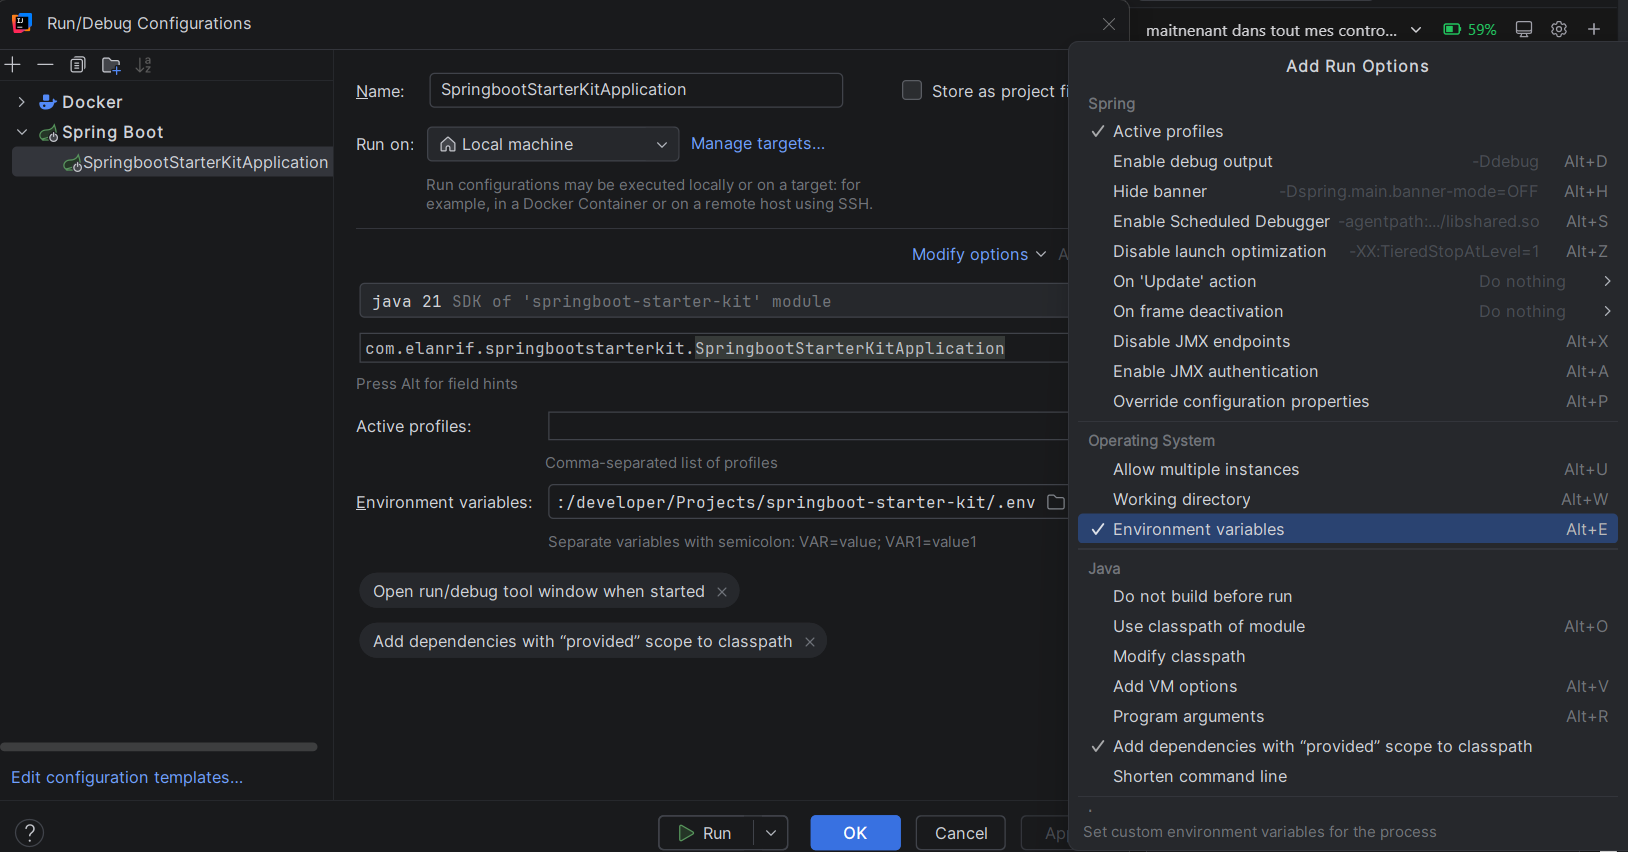
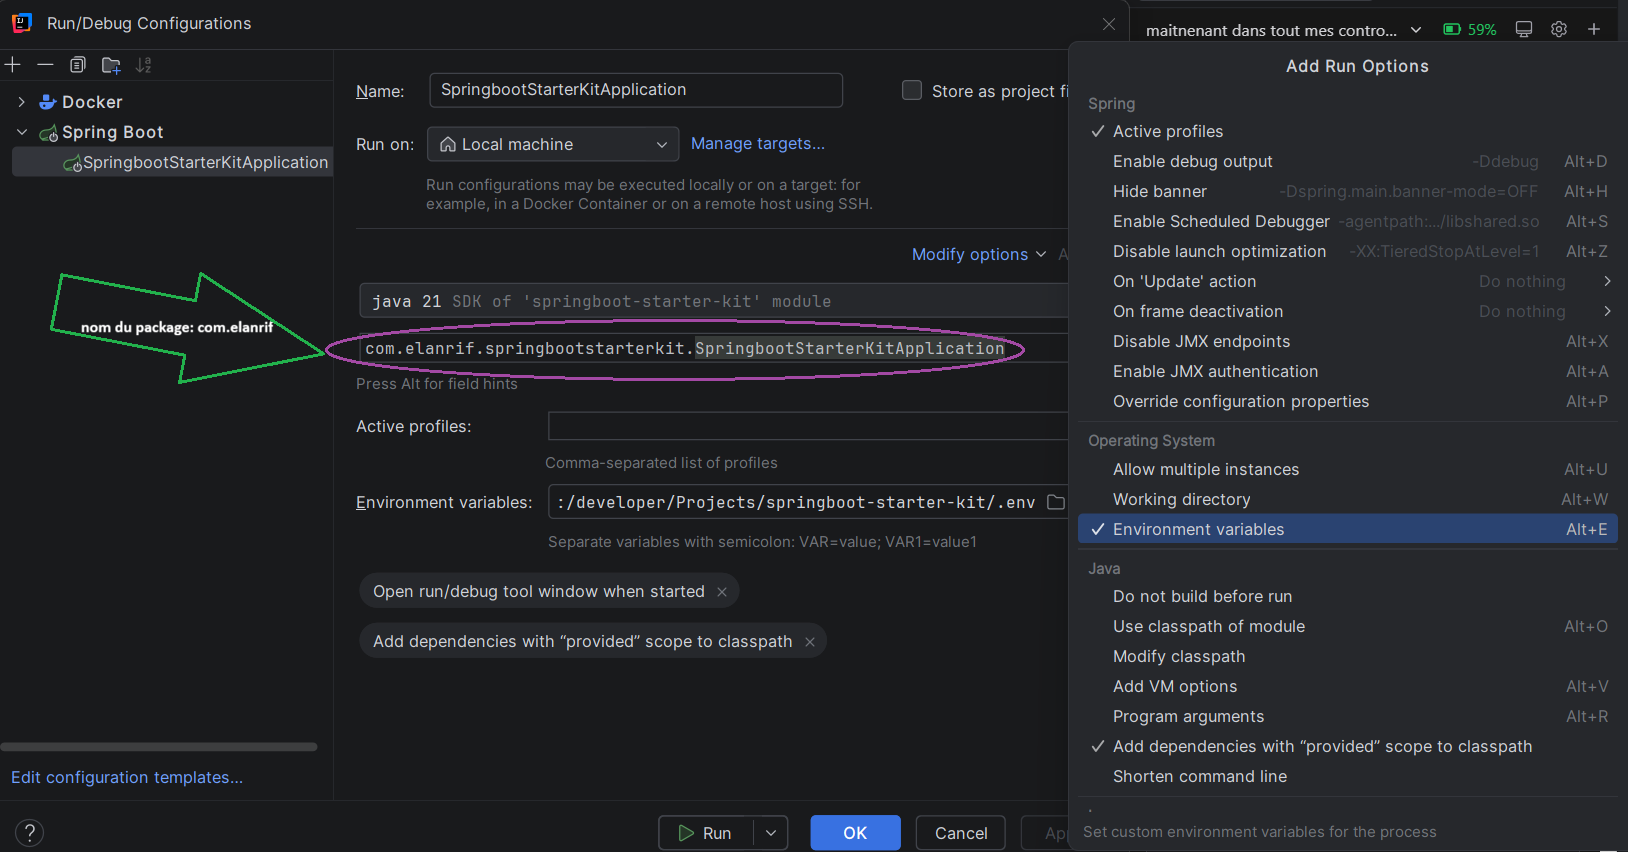
fix: docs

diff --git a/@docs/config.env.md b/@docs/config.env.md
@@ -1,0 +1,19 @@
+# Configurer le fichier `.env` dans IntelliJ
+
+1. Ouvrez **Run/Debug Configurations** puis sélectionnez la configuration de l'application.
+
+![edit-config.png](images/edit-config.png)
+<br>
+
+
+2. Dans la configuration, ouvrez **Modify options** et activez l’option liée au fichier d’environnement (`EnvFile`).
+<br>
+⚠ on peut modifier le nom du package com.elanrif ici !
+
+![modify-options.png](images/modify-options.png)
+<br>
+
+
+3. Ajoutez votre fichier `.env` dans la section **Environment files**, puis appliquez la configuration.
+
+![add-env-file.png](images/add-env-file.png)
